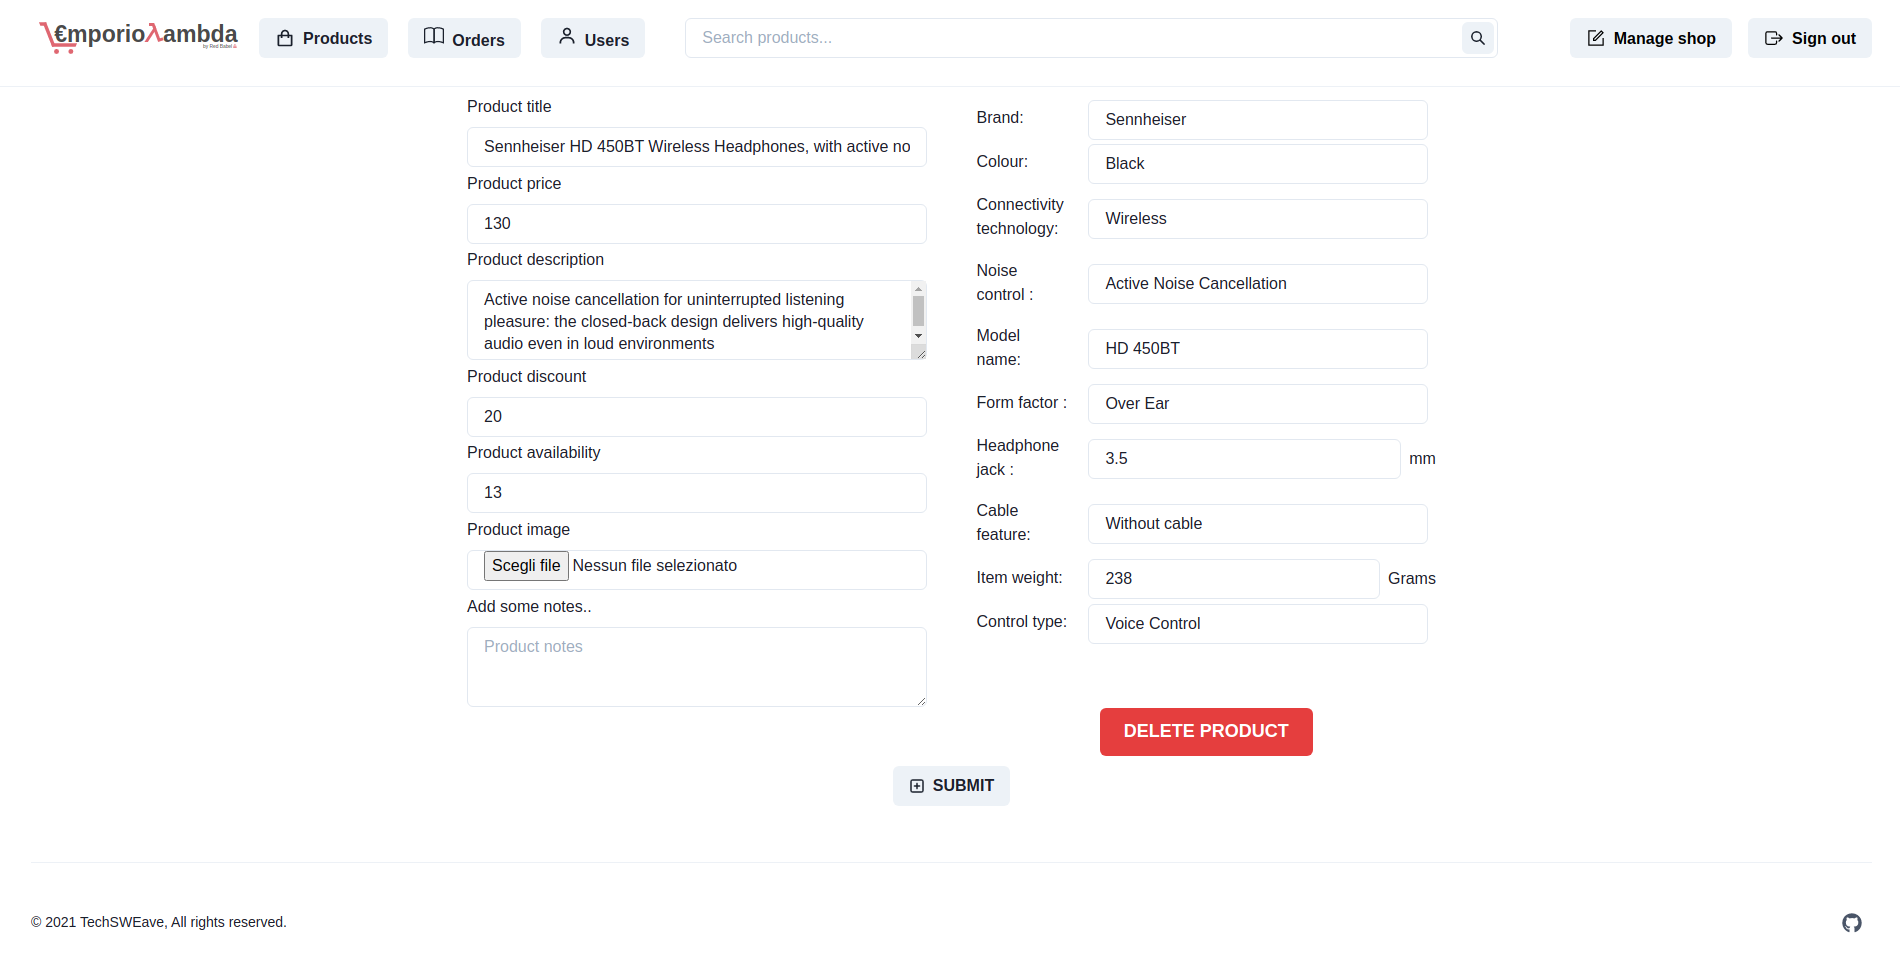
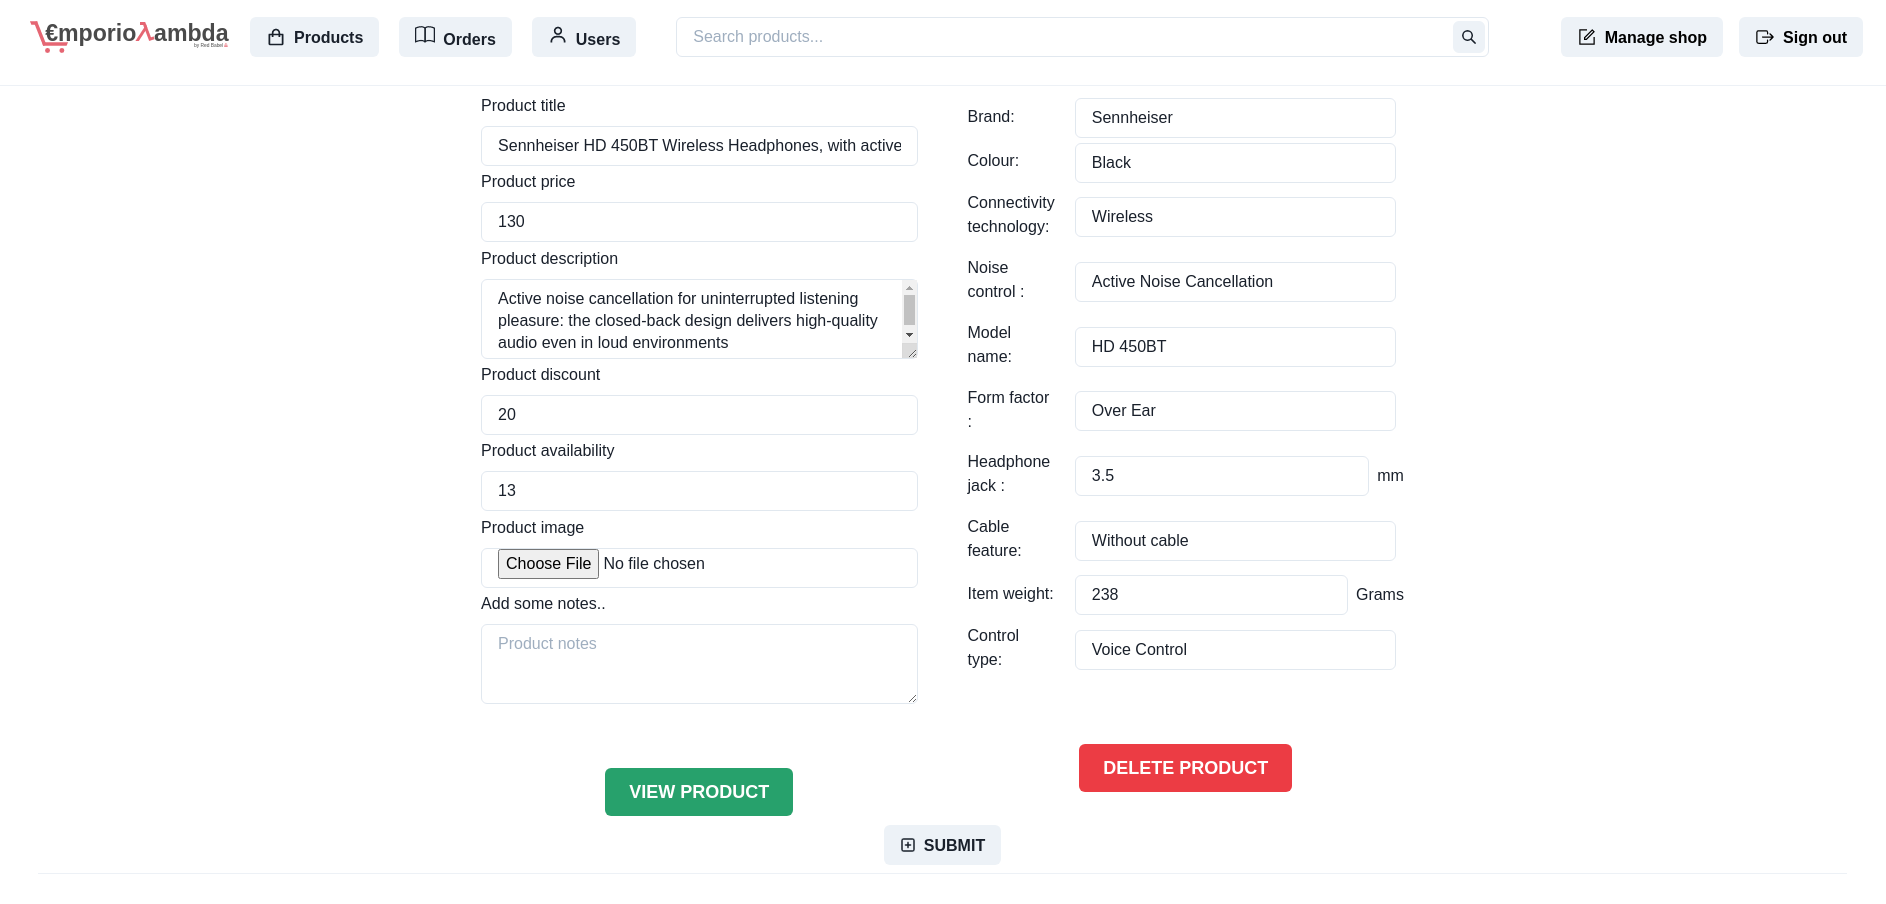
Fix

diff --git a/RQ/Documenti Esterni/Manuali/User manual/sections/genricUserInstruction.tex b/RQ/Documenti Esterni/Manuali/User manual/sections/genricUserInstruction.tex
@@ -15,7 +15,7 @@ When the button is pressed the user arrives in the sign-in page here he has to c
     \includegraphics[scale=0.5]{../../../../Images/userManual/singUP.png}
     \centering
 \end{figure}
-User is redirected to the sign-up page. Here the user has to insert all his information in the form, all data is mandatory, and the sistem doesn't let the user continue unless he provides all information. \begin{figure}[!ht]
+User is redirected to the sign-up page. Here the user has to insert all his information in the form, all data is mandatory, and the system doesn't let the user continue unless he provides all information. \begin{figure}[!ht]
     \caption{Sign-up form}
     \vspace{10px}
     \includegraphics[scale=0.2]{../../../../Images/userManual/signUp.png}
@@ -30,7 +30,7 @@ The password field must contain a lower case letter, an upper case letter, a spe
     \centering
 \end{figure}
 \newpage
-When the user fills in all the forms correctly he can press the \textit{sign-up} button, and he is redirected to the confermation page that asks a code.
+When the user fills in all the forms correctly he can press the \textit{sign-up} button, and he is redirected to the confirmation page that asks a code.
 The code is sent to the e-mail that the user provided in the previous step.
 \begin{figure}[!ht]
     \caption{Verification code}
@@ -39,7 +39,7 @@ The code is sent to the e-mail that the user provided in the previous step.
     \centering
 \end{figure}
 \\
-When he recive the e-mail he can insert the code, and he can porced with the registration pressing the \textit{Confirm account} button. Afetr this the user has been successfully registered, and he is redirected to the home page.
+When he receives the e-mail he can insert the code, and he can proceed with the registration pressing the \textit{Confirm account} button. After this the user has been successfully registered, and he is redirected to the home page.
 
 \subsubsection{Sign-up error}
 If any error happens during the registration procedure such as entering wrong data, you will be redirected to the previous section with an error message describing what the problem is.
@@ -70,7 +70,7 @@ When the button is pressed the is redirected to sign-in page provided by \textit
     \centering
 \end{figure}
 \subsubsection{Sign-in error}
-If the user provides wrong credential a message error appeat to inform the user of the error.
+If the user provides wrong credential a message error appear to inform the user of the error.
 \begin{figure}[!ht]
     \caption{Sign-in error}
     \vspace{10px}
@@ -87,7 +87,7 @@ If a user forgot his password he can change it using the appropriate function. T
     \centering
 \end{figure}
 \\
-When the \textit{reset my password} button is clicked an e-mail with a verification code is sent to the e-mail used for the registration of the account. With this code the user can change his password using the provided form. When the user preses the confermation button the password is changed.
+When the \textit{reset my password} button is clicked an e-mail with a verification code is sent to the e-mail used for the registration of the account. With this code the user can change his password using the provided form. When the user presses the confirmation button the password is changed.
 \begin{figure}[!ht]
     \caption{Change password form}
     \vspace{10px}
@@ -109,14 +109,14 @@ A generic user can see the salable products. He can see these products in the Ho
 \subsection{Searching and filtering products}
 A generic user can search and filter products by price to achieve this he has to:
 \begin{itemize}
-    \item  \textit{Searching products}: the user can insert a keyword inside the searchbar in the header identifiable by the text \textit{Search products...} and press enter or clicking the search button identifiable by the search lens icon.
+    \item  \textit{Searching products}: the user can insert a keyword inside the search bar in the header identifiable by the text \textit{Search products...} and clicking the search button identifiable by the search lens icon.
           \begin{figure}[!ht]
               \caption{Searching products}
               \vspace{10px}
               \includegraphics[scale=0.2]{../../../../Images/userManual/searcbar.png}
               \centering
           \end{figure}
-    \item \textit{Filtering by price}: the user inside the PLP using the slider on the top of the page can set the range of price with a minimun or maximum price or both, and after click \textit{Apply filter} button.
+    \item \textit{Filtering by price}: the user inside the PLP using the slider on the top of the page can set the range of price with a minimum or maximum price or both, and after click \textit{Apply filter} button.
           \begin{figure}[!ht]
               \caption{Filter for products}
               \vspace{10px}
@@ -124,7 +124,7 @@ A generic user can search and filter products by price to achieve this he has to
               \centering
           \end{figure}
 \end{itemize}
-The result of the research or of the filtering is shown, if there isn't products corrrisponding with paraetrers, is shown \textit{no products found}.
+The result of the research or of the filtering is shown, if there isn't products corresponding with parameters, is shown \textit{no products found}.
 \newpage
 \subsection{Viewing product detail}
 To see the product detail a user has to press the product image, both in the home and in the PLP.
@@ -144,13 +144,13 @@ He is redirected to the product detail page where he can see:
     \item the product's price with the discounted price with the discount percentage if any ;
     \item the product's taxes;
     \item the product's availability;
-    \item alternative produts.
+    \item alternative products.
 \end{itemize}
 \newpage
 \subsection{Adding products to the cart}
 The user has two options to add products to the cart.
 \begin{itemize}
-    \item \textit{Directly from the product list page:} by seleting the products that he wants to add cart cheekcing the checkbox present in each of the product images, and clicking the \textit{add selected products to cart} button. In this way the user can add multiple porducts to the cart.
+    \item \textit{Directly from the product list page:} by selecting the products that he wants to add cart checking the checkbox present in each of the product images, and clicking the \textit{add selected products to cart} button. In this way the user can add multiple products to the cart.
           \begin{figure}[!ht]
               \caption{Adding to cart multiple products}
               \vspace{10px}
@@ -174,14 +174,14 @@ When the button is pressed a pop-up showing two buttons appears. One to continue
 \end{figure}
 \newpage
 \subsection{Managing the cart}
-A user can access the cart when he adds a product to the cart or by clicking the \textit{cart} button presnt in the header.
+A user can access the cart when he adds a product to the cart or by clicking the \textit{cart} button present in the header.
 \begin{figure}[!ht]
     \caption{Cart page}
     \vspace{10px}
     \includegraphics[scale=0.3]{../../../../Images/userManual/cart.png}
     \centering
 \end{figure}
-In the cart the user can see all the products that he previusly add to the cart. For each product he can see:
+In the cart the user can see all the products that he previously add to the cart. For each product he can see:
 \begin{itemize}
     \item the product's title;
     \item the product's image;

diff --git a/RQ/Documenti Esterni/Manuali/User manual/sections/clientInstruction.tex b/RQ/Documenti Esterni/Manuali/User manual/sections/clientInstruction.tex
@@ -17,7 +17,7 @@ To perform this action the authenticated user has to click the profile button.
     \includegraphics[scale=0.5]{../../../../Images/userManual/profile-signoutButton.png}
     \centering
 \end{figure}
-When the button is pressed the user see the dashbord page, were all his data is shown.
+When the button is pressed the user see the dashboard page, were all his data is shown.
 \begin{figure}[!ht]
     \caption{User data}
     \vspace{10px}
@@ -26,7 +26,7 @@ When the button is pressed the user see the dashbord page, were all his data is 
 \end{figure}
 \newpage
 \subsubsection{Modify user data}
-When user is in the profile page he can press the \textit{Edit profile} button present in the profile navbar.
+When user is in the profile page he can press the \textit{Edit profile} button present in the profile navbar\textsubscript{\textbf{G}}.
 \begin{figure}[!ht]
     \caption{Profile page navbar}
     \vspace{10px}
@@ -65,11 +65,11 @@ The user now has to insert:
     \item e-mail;
     \item card number;
     \item expiration date:
-    \item cvc;
+    \item CVC;
     \item name.
 \end{itemize}
 The user can also use other payment method like \textit{Gpay} and \textit{Apple Pay}.
-When the user entred all the required information he can click the checkout payment button to pay the order. After this he is redirected to the succes page and here he can go to his order page list, or if the checkout fail to the cart page.
+When the user entered all the required information he can click the checkout payment button to pay the order. After this he is redirected to the success page and here he can go to his order page list, or if the checkout fail to the cart page.
 \begin{figure}[!ht]
     \caption{Checkout success}
     \vspace{10px}
@@ -77,7 +77,7 @@ When the user entred all the required information he can click the checkout paym
     \centering
 \end{figure}
 \subsection{Order list visualization}
-An authenticated user can view all his previus order. To perform this action the user has to be in the profile page, and he has to click the \textit{order} button.
+An authenticated user can view all his previous order. To perform this action the user has to be in the profile page, and he has to click the \textit{order} button.
 \begin{figure}[!ht]
     \caption{Profile page navbar}
     \vspace{10px}
@@ -85,10 +85,10 @@ An authenticated user can view all his previus order. To perform this action the
     \centering
 \end{figure}
 \newpage
-When the button is pressed the order list is shown. There is two differnt view for order list depending on the device in use.
+When the button is pressed the order list is shown. There is two different view for order list depending on the device in use.
 \begin{itemize}
     \item Desktop visualization:
-          the user see all his order with produt information like:
+          the user see all his order with product information like:
           \begin{figure}[!ht]
               \caption{Desktop order}
               \vspace{10px}
@@ -103,7 +103,7 @@ When the button is pressed the order list is shown. There is two differnt view f
               \item title;
               \item image;
               \item price;
-              \item qunatity;
+              \item quantity;
               \item description;
               \item order state;
               \item total of the single product;
@@ -122,9 +122,9 @@ When the button is pressed the order list is shown. There is two differnt view f
               \item order state;
               \item order date;
               \item total;
-              \item detail butto.
+              \item detail button.
           \end{itemize}
-          When the user from mobile clicks the detial button he is redirected to the order detail where he can see all the order information like desktop visualization.
+          When the user from mobile clicks the detail button he is redirected to the order detail where he can see all the order information like desktop visualization.
           \begin{figure}[!ht]
               \caption{Mobile order detail}
               \vspace{10px}

diff --git a/RQ/Documenti Esterni/Manuali/User manual/sections/introduction.tex b/RQ/Documenti Esterni/Manuali/User manual/sections/introduction.tex
@@ -8,16 +8,8 @@ via an AWS\textsubscript{\textbf{G}} vendor account.
 \subsection{Glossary}
 There are terms within the document that may be ambiguous depending on the context. In order to avoid possible misunderstandings
 and make clear the terms used, they will be identifiable by a subscript '\textbf{G}' and reported with their meaning in the appendix.
-\subsection{Refererences}
+\subsection{References}
 \subsubsection{Normative}
 \begin{itemize}
     \item \textbf{Tender specifications C2: Emporio-Lambda: Serverless style e-commerce platform:} \\ \href{https://www.math.unipd.it/~tullio/IS-1/2020/Progetto/C2.pdf}{https://www.math.unipd.it/~tullio/IS-1/2020/Progetto/C2.pdf}
-\end{itemize}
-\subsubsection{Informative}
-\begin{itemize}
-    \item \textbf{"SOLID Principles" slides by Professor Riccardo Cardin:} \\
-          \url{
-              https://www.math.unipd.it/_7Ercardin/swea/2021/SOLID_20Principles_20of_20Object-Oriented_20Design_4x4.pdf}
-    \item \textbf{"Architetectural styles: Monolite and Microservices" slides by Professor Riccardo Cardin:} \\
-          \url{https://www.math.unipd.it/~rcardin/sweb/2021/L03.pdf}
 \end{itemize}

diff --git a/RQ/Documenti Esterni/Manuali/User manual/sections/vendorInstructions.tex b/RQ/Documenti Esterni/Manuali/User manual/sections/vendorInstructions.tex
@@ -124,7 +124,7 @@ By clicking on the image of a single product in the products page, the vendor wi
 \end{figure}
 \pagebreak
 \subsubsection{Edit product}
-By clicking on the \textit{Edit product} button on the right of the product detail screen, the vendor will be redirected to the screen where he can edit all the product details. After possibly changing the data, the vendor can save the changes by clicking on the \textit{Submit} button. From this screen it is also possible to delete the product by clicking on the \textit{DELETE PRODUCT} button.
+By opening a product the vendor will be redirected to the screen where he can edit all the product details. After possibly changing the data, the vendor can save the changes by clicking on the \textit{Submit} button or clicking the \textit{View Product} the vendor could see the PDP page. From this screen it is also possible to delete the product by clicking on the \textit{DELETE PRODUCT} button.
 \begin{figure}[!ht]
     \caption{Edit product page viewed from the vendor}
     \vspace{5px}

diff --git a/RQ/Documenti Esterni/Manuali/User manual/sections/setup.tex b/RQ/Documenti Esterni/Manuali/User manual/sections/setup.tex
@@ -1,12 +1,2 @@
 \section{Setup}
-\subsection{Minimum requirements}
-To deploy the platform, you must have a valid AWS account to obtain the credentials to be included in the configuration of the serverless framework profile.\newline
-The system where the deployment will be carried out must have the following technologies installed:
-\begin{itemize}
-    \item nodeJS;
-    \item npm.
-\end{itemize}
-\subsubsection{Software requirements}
-In order to access the platform, it will be necessary to use a browser, preferably updated to the latest version, like \textit{Mozilla Firefox} or \textit{Google Chrome}.
-\subsection{Platform usage}
 The platform is reachable at the public link \href{https://eml-fe-five.vercel.app/}{https://eml-fe-five.vercel.app/}

diff --git a/RQ/Documenti Esterni/Manuali/User manual/glossaryDefinitions/N.tex b/RQ/Documenti Esterni/Manuali/User manual/glossaryDefinitions/N.tex
@@ -1,4 +1,4 @@
 \subsection*{N}
 \begin{itemize}
-    \item \textit{Word} \\ definition
+    \item \textit{Navbar} \\ is a section of a graphical user interface intended to aid visitors in accessing information.
 \end{itemize}
